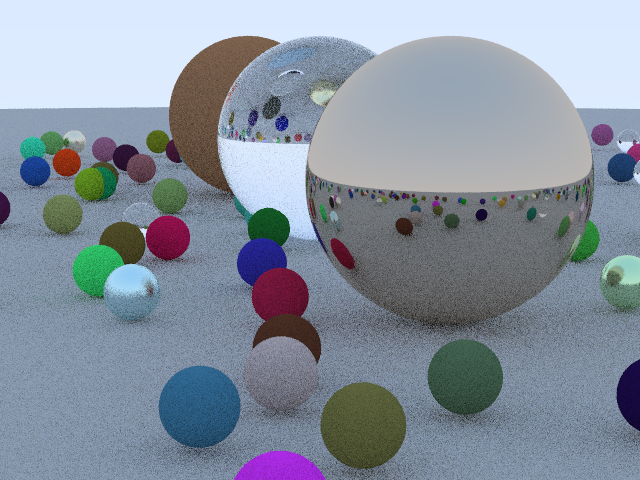
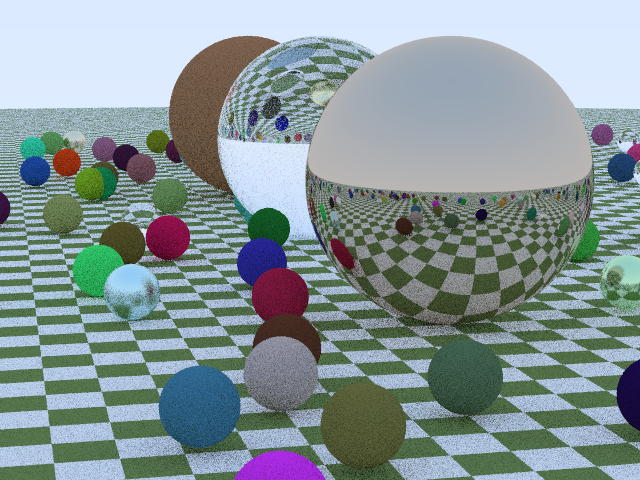
Textures

diff --git a/src/material/mod.rs b/src/material/mod.rs
@@ -3,6 +3,7 @@ use crate::{
     math::{Float, Ray, Vec3},
     random::Random,
     shapes::Hit,
+    texture::Texture,
 };
 
 pub trait Material: Sync {
@@ -11,21 +12,21 @@ pub trait Material: Sync {
 }
 
 pub struct Diffuse {
-    pub color: Color,
+    pub texture: Box<dyn Texture>,
 }
 
 impl Material for Diffuse {
     fn color(&self) -> Color {
-        self.color
+        Color::WHITE
     }
 
-    fn scatter(&self, ray: &Ray, hit: &Hit, random: &mut Random) -> Option<(Color, Ray)> {
+    fn scatter(&self, _: &Ray, hit: &Hit, random: &mut Random) -> Option<(Color, Ray)> {
         let direction = random.in_hemisphere(hit.normal); // hit.normal + random.in_sphere();
         let ray = Ray {
-            origin: ray.at(hit.t),
+            origin: hit.point,
             direction: direction.normalized(),
         };
-        Some((self.color, ray))
+        Some((self.texture.value(hit), ray))
     }
 }
 
@@ -47,7 +48,7 @@ impl Material for Metallic {
             reflected
         };
         let ray = Ray {
-            origin: ray.at(hit.t),
+            origin: hit.point,
             direction: direction.normalized(),
         };
         Some((self.color, ray))
@@ -78,7 +79,7 @@ impl Material for Dielectric {
             refract(ray.direction, normal, eta)
         };
         let ray = Ray {
-            origin: ray.at(hit.t),
+            origin: hit.point,
             direction: direction.normalized(),
         };
         Some((Color::WHITE, ray))

diff --git a/examples/in_one_weekend.rs b/examples/in_one_weekend.rs
@@ -19,7 +19,7 @@ fn main() -> RayResult<()> {
 fn scene() -> SceneDef {
     let mut objects = Vec::new();
     let ground_material = Box::new(Diffuse {
-        color: Color::new(0.5, 0.5, 0.5),
+        texture: Box::new(Checker(Color::new(0.2, 0.3, 0.1), Color::new(0.9, 0.9, 0.9))),
     });
     objects.push(Object {
         shape: Box::new(Sphere {
@@ -42,11 +42,11 @@ fn scene() -> SceneDef {
                 let material: Box<dyn Material> = if choose_mat < 0.8 {
                     // diffuse
                     Box::new(Diffuse {
-                        color: Color {
-                            r: random.in_01() * random.in_01(),
-                            g: random.in_01() * random.in_01(),
-                            b: random.in_01() * random.in_01(),
-                        },
+                        texture: Box::new(Color::new(
+                            random.in_01() * random.in_01(),
+                            random.in_01() * random.in_01(),
+                            random.in_01() * random.in_01(),
+                        )),
                     })
                 } else if choose_mat < 0.95 {
                     // metal
@@ -96,7 +96,7 @@ fn scene() -> SceneDef {
             radius: 1.0,
         }),
         material: Box::new(Diffuse {
-            color: Color::new(0.4, 0.2, 0.1),
+            texture: Box::new(Color::new(0.4, 0.2, 0.1)),
         }),
     });
     objects.push(Object {

diff --git a/src/texture.rs b/src/texture.rs
@@ -1,0 +1,40 @@
+use crate::{
+    color::Color,
+    shapes::Hit,
+};
+
+pub trait Texture: Sync {
+    fn value(&self, hit: &Hit) -> Color;
+}
+
+impl Texture for Color {
+    fn value(&self, _: &Hit) -> Color {
+        *self
+    }
+}
+
+pub struct Normal;
+
+impl Texture for Normal {
+    fn value(&self, hit: &Hit) -> Color {
+        Color::new(
+            hit.normal[0] * 0.5 + 1.0,
+            hit.normal[1] * 0.5 + 1.0,
+            hit.normal[2] * 0.5 + 1.0,
+        )
+    }
+}
+
+pub struct Checker<T0, T1>(pub T0, pub T1);
+
+impl<T0: Texture, T1: Texture> Texture for Checker<T0, T1> {
+    fn value(&self, hit: &Hit) -> Color {
+        let p = hit.point * 10.0;
+        let sines = p[0].sin() * p[1].sin() * p[2].sin();
+        if sines < 0.0 {
+            self.0.value(hit)
+        } else {
+            self.1.value(hit)
+        }
+    }
+}

diff --git a/src/shapes/mod.rs b/src/shapes/mod.rs
@@ -6,6 +6,7 @@ pub use sphere::Sphere;
 
 pub struct Hit {
     pub t: Float,
+    pub point: Vec3,
     pub normal: Vec3,
 }
 
@@ -15,7 +16,7 @@ pub trait Shape: Sync {
 }
 
 impl Shape for Aabb3 {
-    fn hit(&self, ray: &Ray) -> Option<Hit> {
+    fn hit(&self, _: &Ray) -> Option<Hit> {
         // let tmin = (self.min - ray.origin) / ray.direction;
         // let tmax = (self.max - ray.origin) / ray.direction;
         // let rmin = tmin.min(tmax); 

diff --git a/src/shapes/sphere.rs b/src/shapes/sphere.rs
@@ -28,8 +28,9 @@ impl Shape for Sphere {
             if t <= T_MIN {
                 None
             } else {
-                let normal = (ray.at(t) - self.center).normalized();
-                Some(Hit { t, normal })
+                let point = ray.at(t);
+                let normal = (point - self.center).normalized();
+                Some(Hit { t, point, normal })
             }
         }
     }

diff --git a/src/lib.rs b/src/lib.rs
@@ -14,6 +14,7 @@ mod ray_tracer;
 mod renderer;
 mod scene;
 mod shapes;
+mod texture;
 
 use serde::Deserialize;
 use std::{
@@ -37,6 +38,7 @@ pub use math::*;
 pub use object::Object;
 pub use random::Random;
 pub use shapes::*;
+pub use texture::*;
 
 pub type RayResult<T> = Result<T, Box<dyn std::error::Error>>;
 
